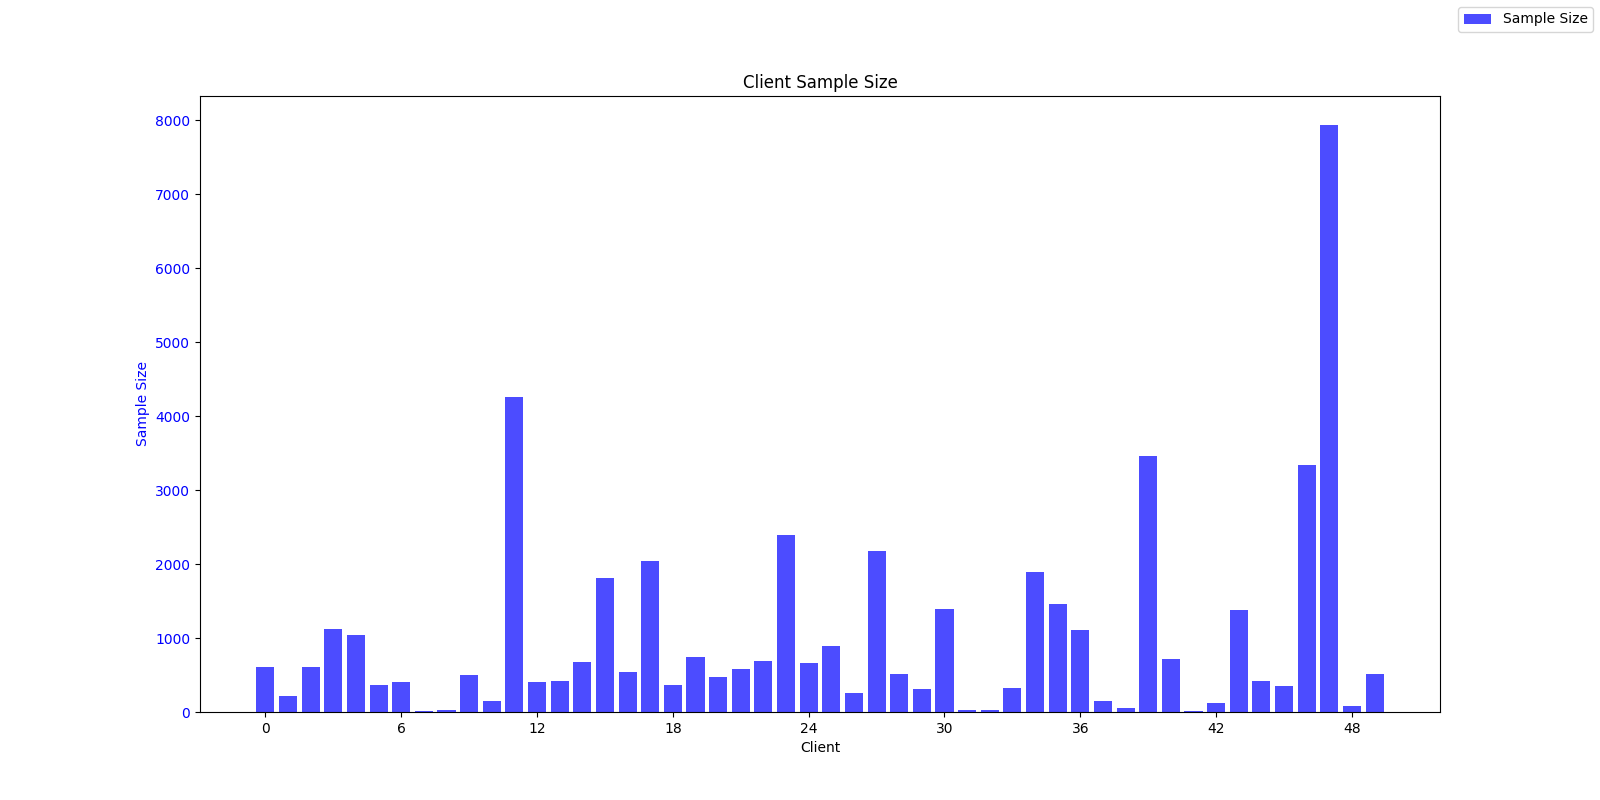
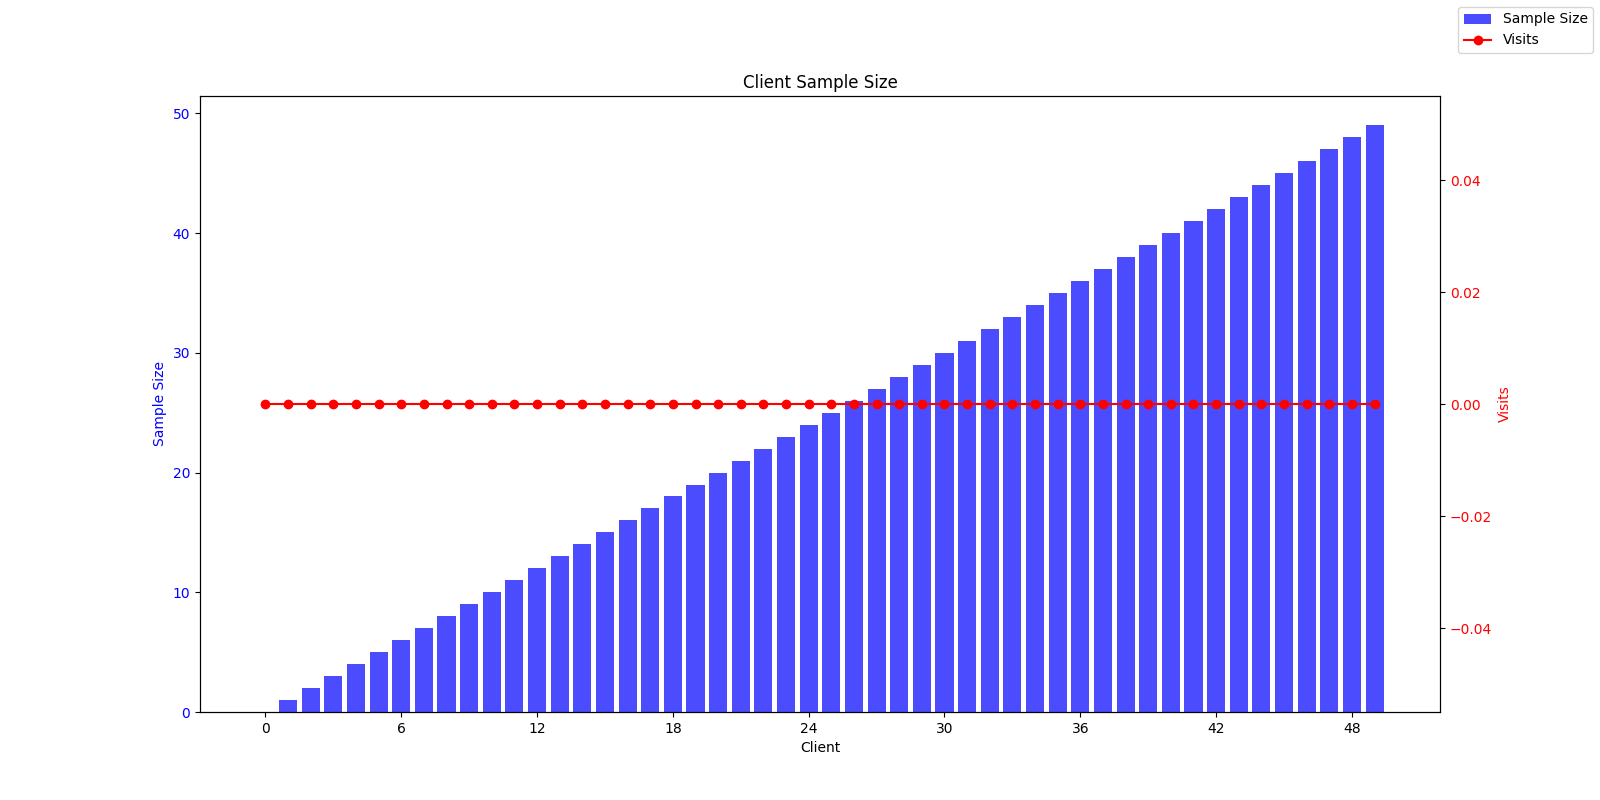
create part

diff --git a/plots.py b/plots.py
@@ -56,7 +56,7 @@ def plot_rss(client_idxs, visits, path, args):
 
     # Bar plot for sample size
     ax1.xaxis.set_major_locator(MaxNLocator(integer=True))
-    ax1.bar(np.arange(len(counts)), counts.values(), label='Sample Size', alpha=0.7, color='blue')
+    ax1.bar(np.arange(len(counts)), counts, label='Sample Size', alpha=0.7, color='blue')
     ax1.set_title("Client Sample Size")
     ax1.set_xlabel("Client")
     ax1.set_ylabel("Sample Size", color='blue')
